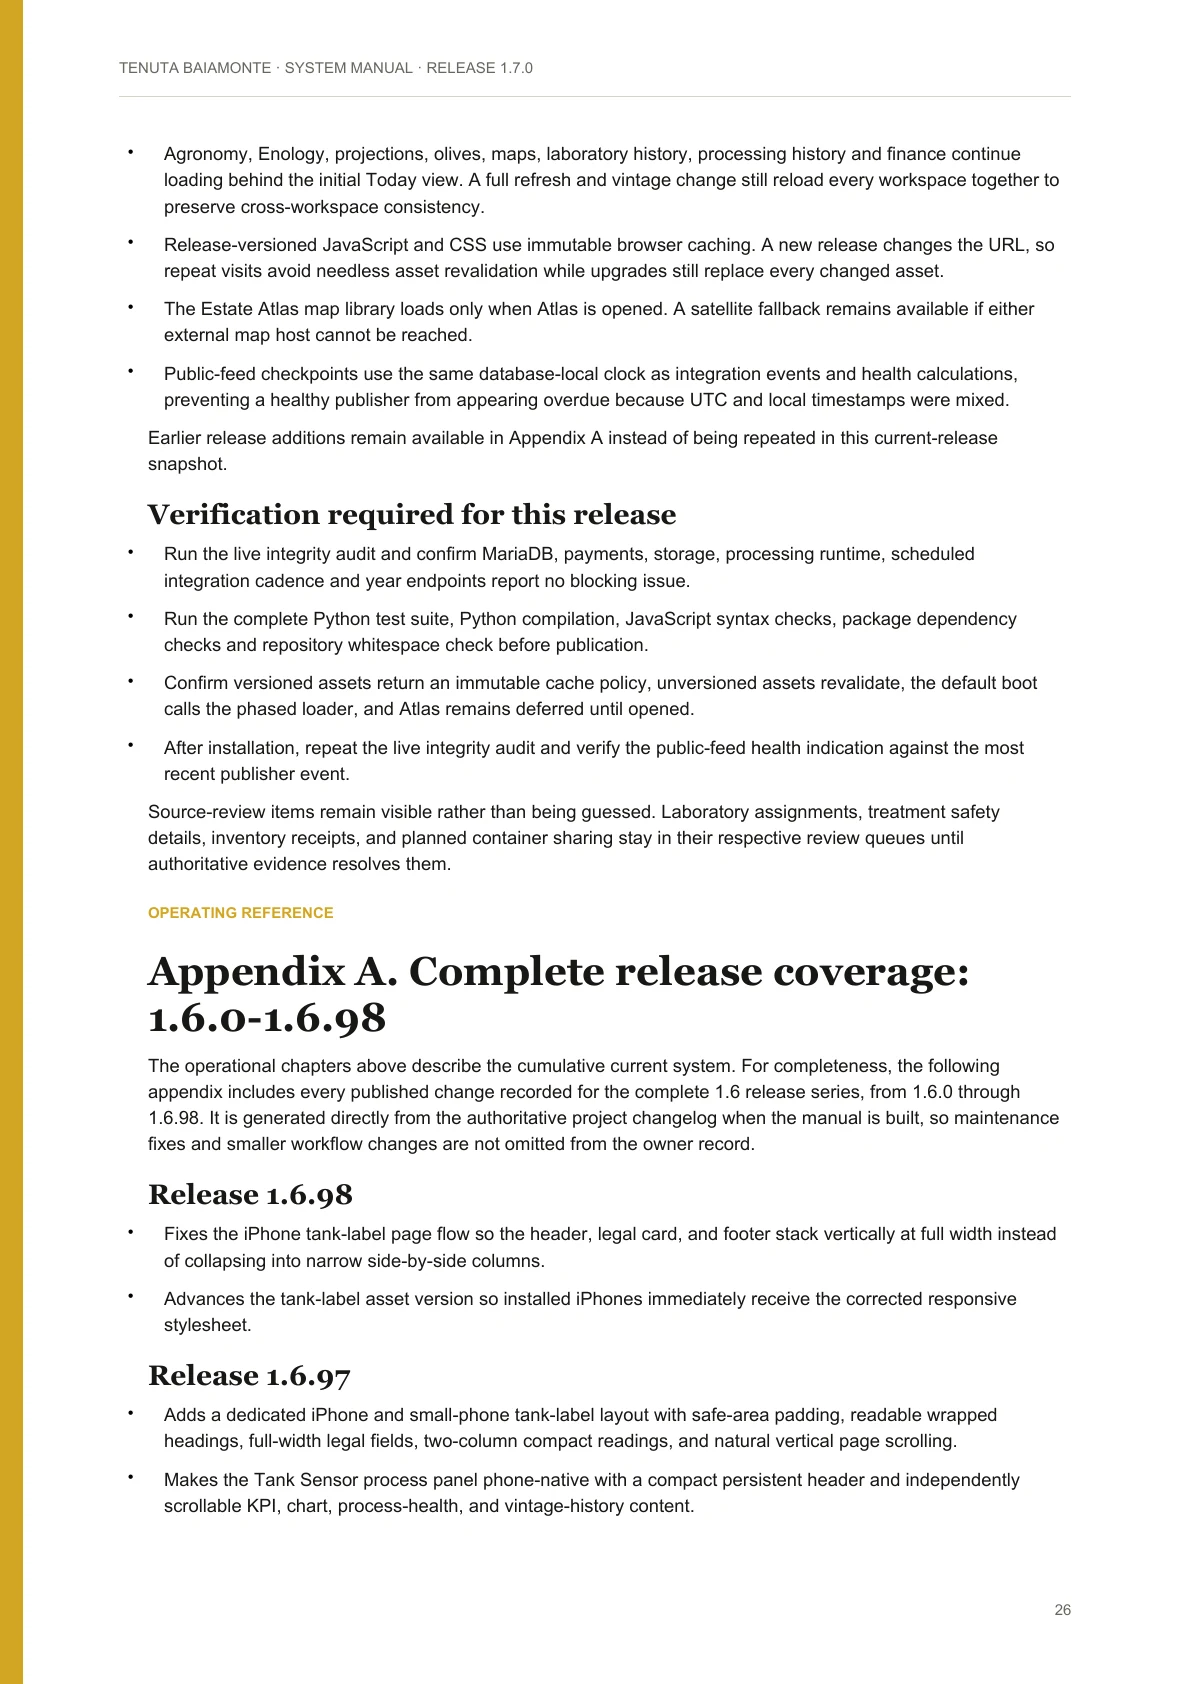
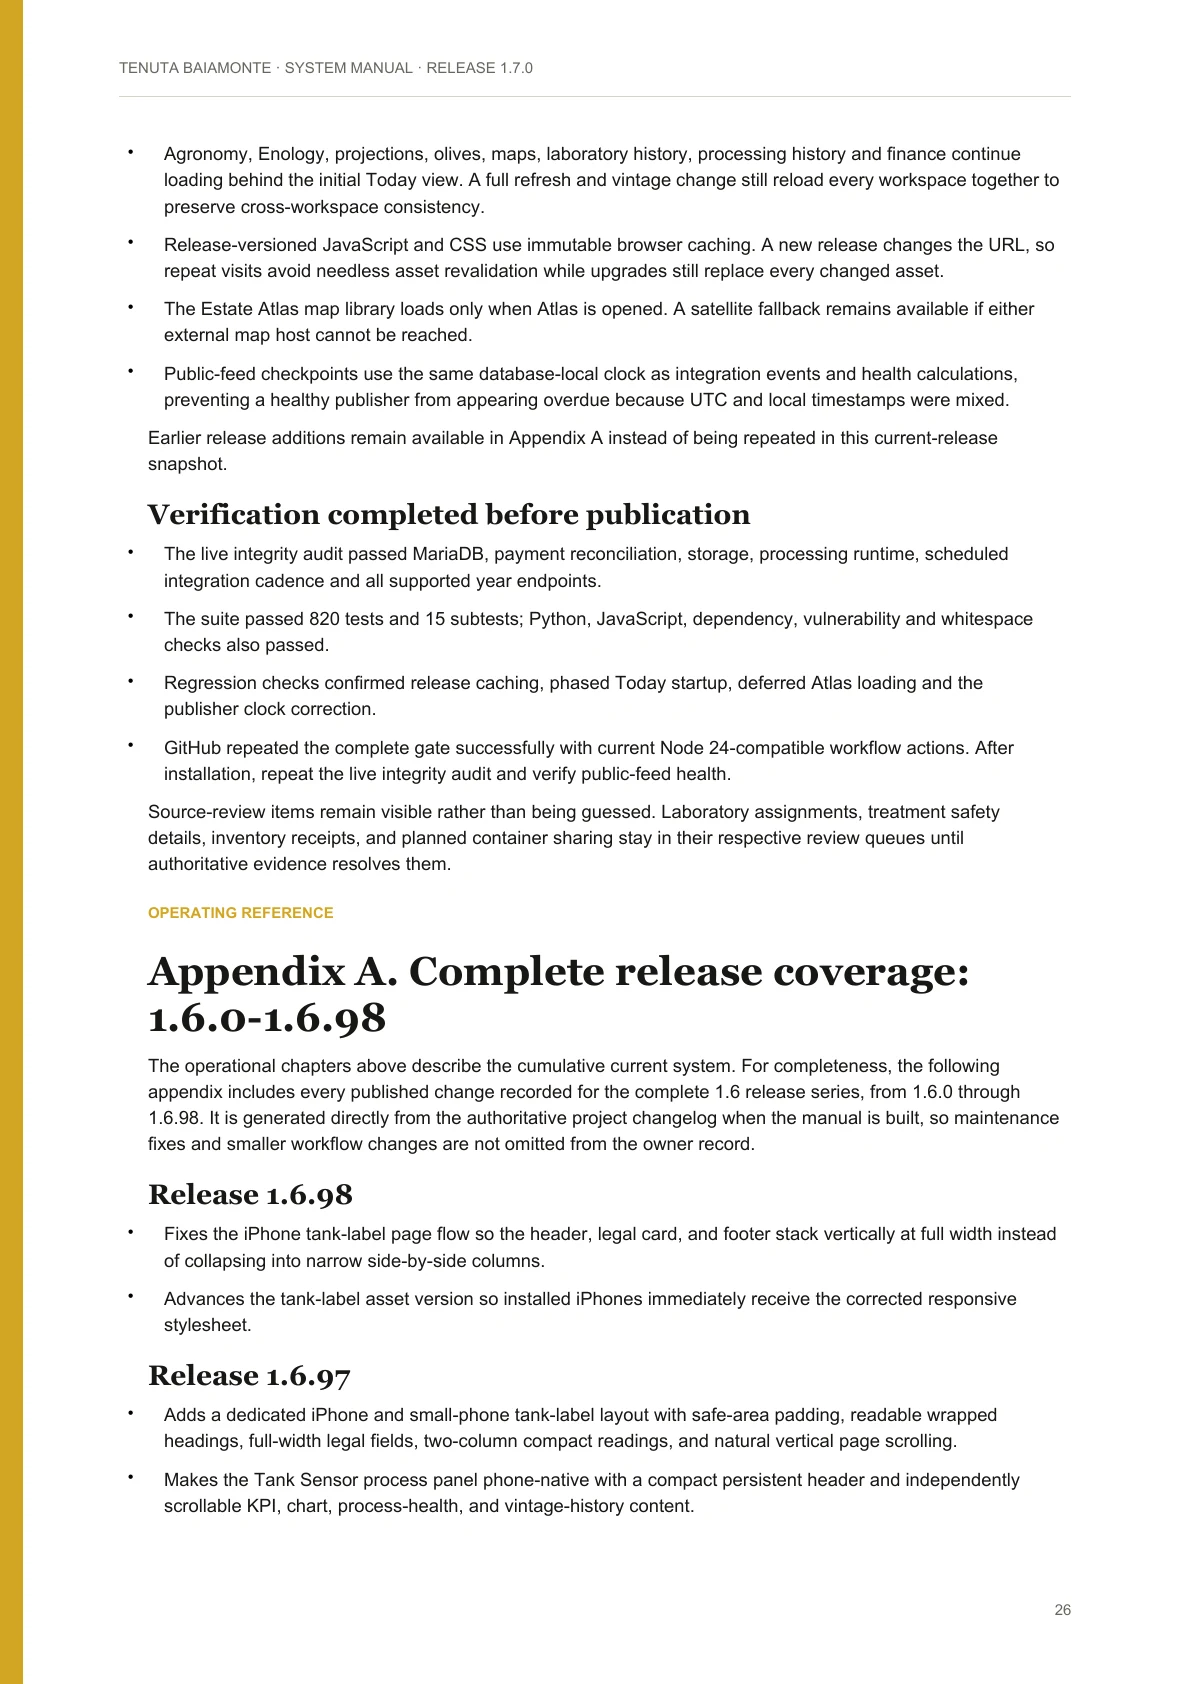
Record completed 1.7 release verification

Changed region(s): [[0.1243, 0.2779, 0.8699, 0.4632]]

diff --git a/baiamonte-vineyard/docs/Tenuta_Baiamonte_System_Manual.md b/baiamonte-vineyard/docs/Tenuta_Baiamonte_System_Manual.md
@@ -882,12 +882,12 @@ Confirm the reservation is requested, confirmed, or arrived and has a future or 
 
 Earlier release additions remain available in Appendix A instead of being repeated in this current-release snapshot.
 
-### Verification required for this release
+### Verification completed before publication
 
-- Run the live integrity audit and confirm MariaDB, payments, storage, processing runtime, scheduled integration cadence and year endpoints report no blocking issue.
-- Run the complete Python test suite, Python compilation, JavaScript syntax checks, package dependency checks and repository whitespace check before publication.
-- Confirm versioned assets return an immutable cache policy, unversioned assets revalidate, the default boot calls the phased loader, and Atlas remains deferred until opened.
-- After installation, repeat the live integrity audit and verify the public-feed health indication against the most recent publisher event.
+- The live integrity audit passed MariaDB, payment reconciliation, storage, processing runtime, scheduled integration cadence and all supported year endpoints.
+- The suite passed 820 tests and 15 subtests; Python, JavaScript, dependency, vulnerability and whitespace checks also passed.
+- Regression checks confirmed release caching, phased Today startup, deferred Atlas loading and the publisher clock correction.
+- GitHub repeated the complete gate successfully with current Node 24-compatible workflow actions. After installation, repeat the live integrity audit and verify public-feed health.
 
 Source-review items remain visible rather than being guessed. Laboratory assignments, treatment safety details, inventory receipts, and planned container sharing stay in their respective review queues until authoritative evidence resolves them.
 

diff --git a/baiamonte-vineyard/docs/System_Audit_2026-08-29.md b/baiamonte-vineyard/docs/System_Audit_2026-08-29.md
@@ -30,4 +30,8 @@ GZip was already working correctly: representative reductions were approximately
 
 ## Release gate
 
-Before publication, run the full Python suite, compile all Python modules, syntax-check every JavaScript module, validate Python and Node dependencies, rebuild and visually verify the system manual, check repository whitespace and rerun the live integrity script. After installation, repeat the live integrity audit and confirm the published-feed indicator is no longer falsely overdue.
+The local release gate passed 820 tests and 15 subtests. Python compilation, every JavaScript syntax check, `pip check`, the production Node audit and repository whitespace checks passed; the Node audit reported zero vulnerabilities. The rebuilt 48-page A4 manual was rendered in full and visually checked for clipping, overlap, broken transitions, headers and page numbering.
+
+GitHub repeated the clean install, dependency checks, production Node audit, compilation, JavaScript validation and full test suite successfully. The workflow itself was then moved to current Node 24-compatible `v7` checkout, Python and Node setup actions and passed again without the prior deprecation annotation.
+
+Home Assistant Store refresh detected version 1.7.0 as available while the validated 1.6.98 installation remained running. After installation, repeat the live integrity audit and confirm the published-feed indicator is no longer falsely overdue.
